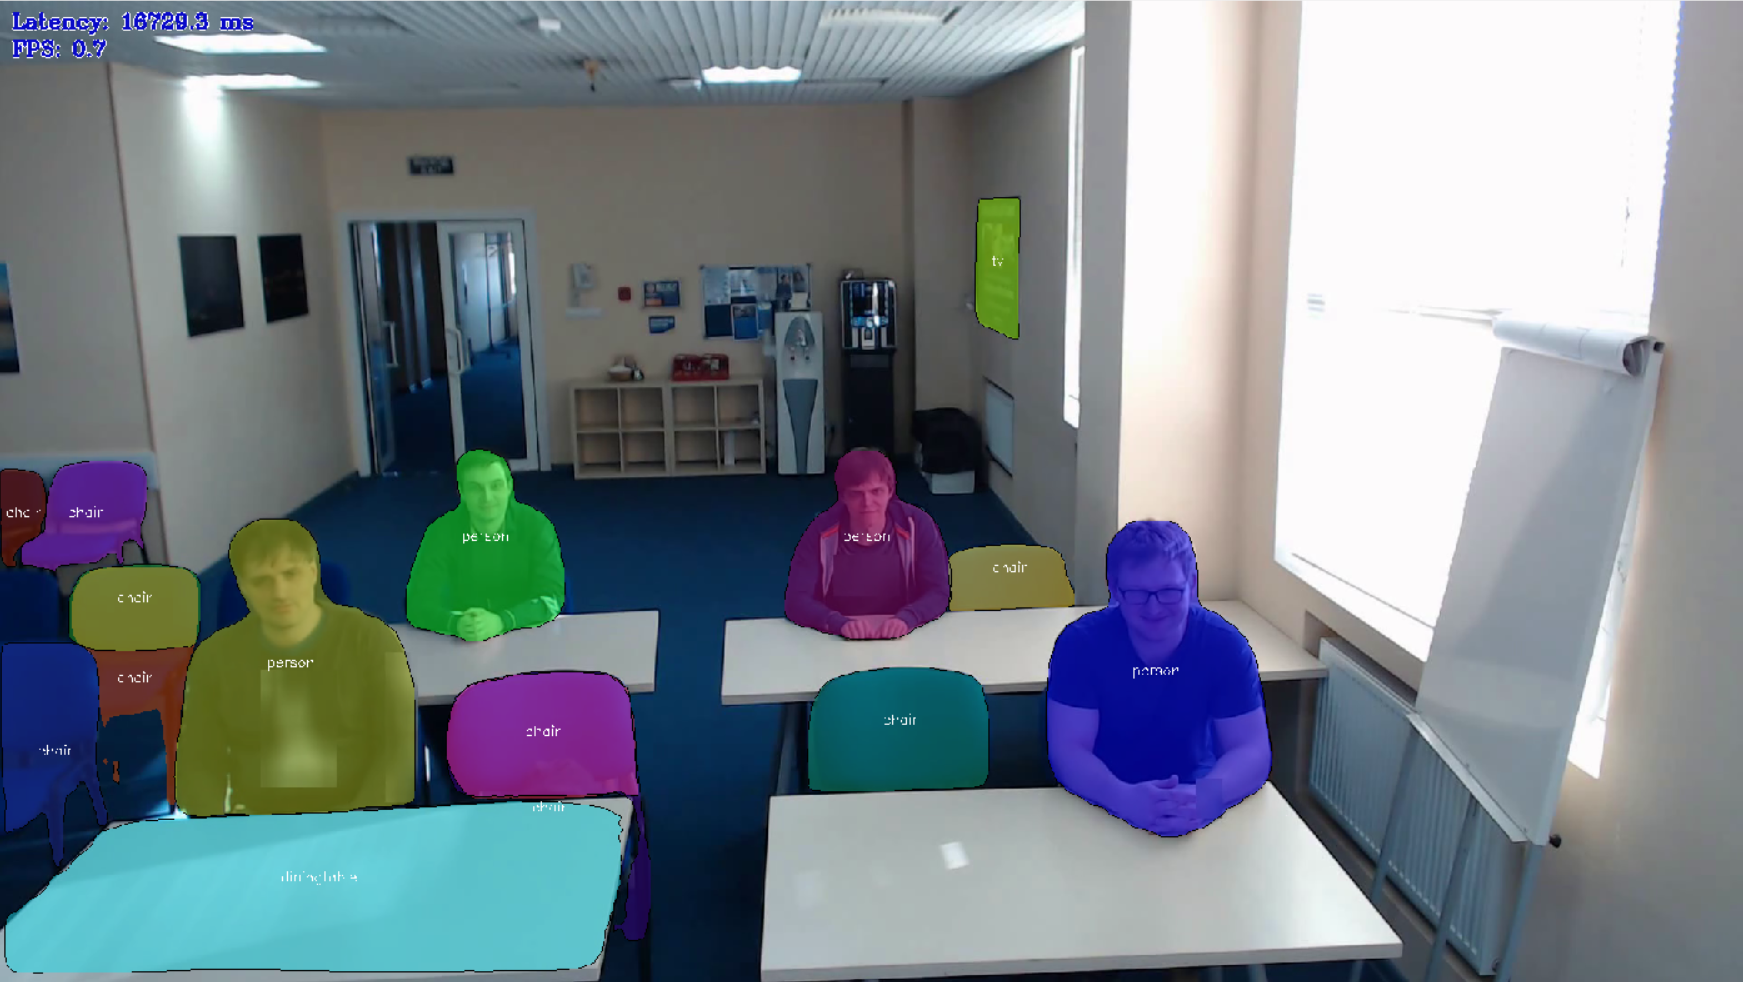
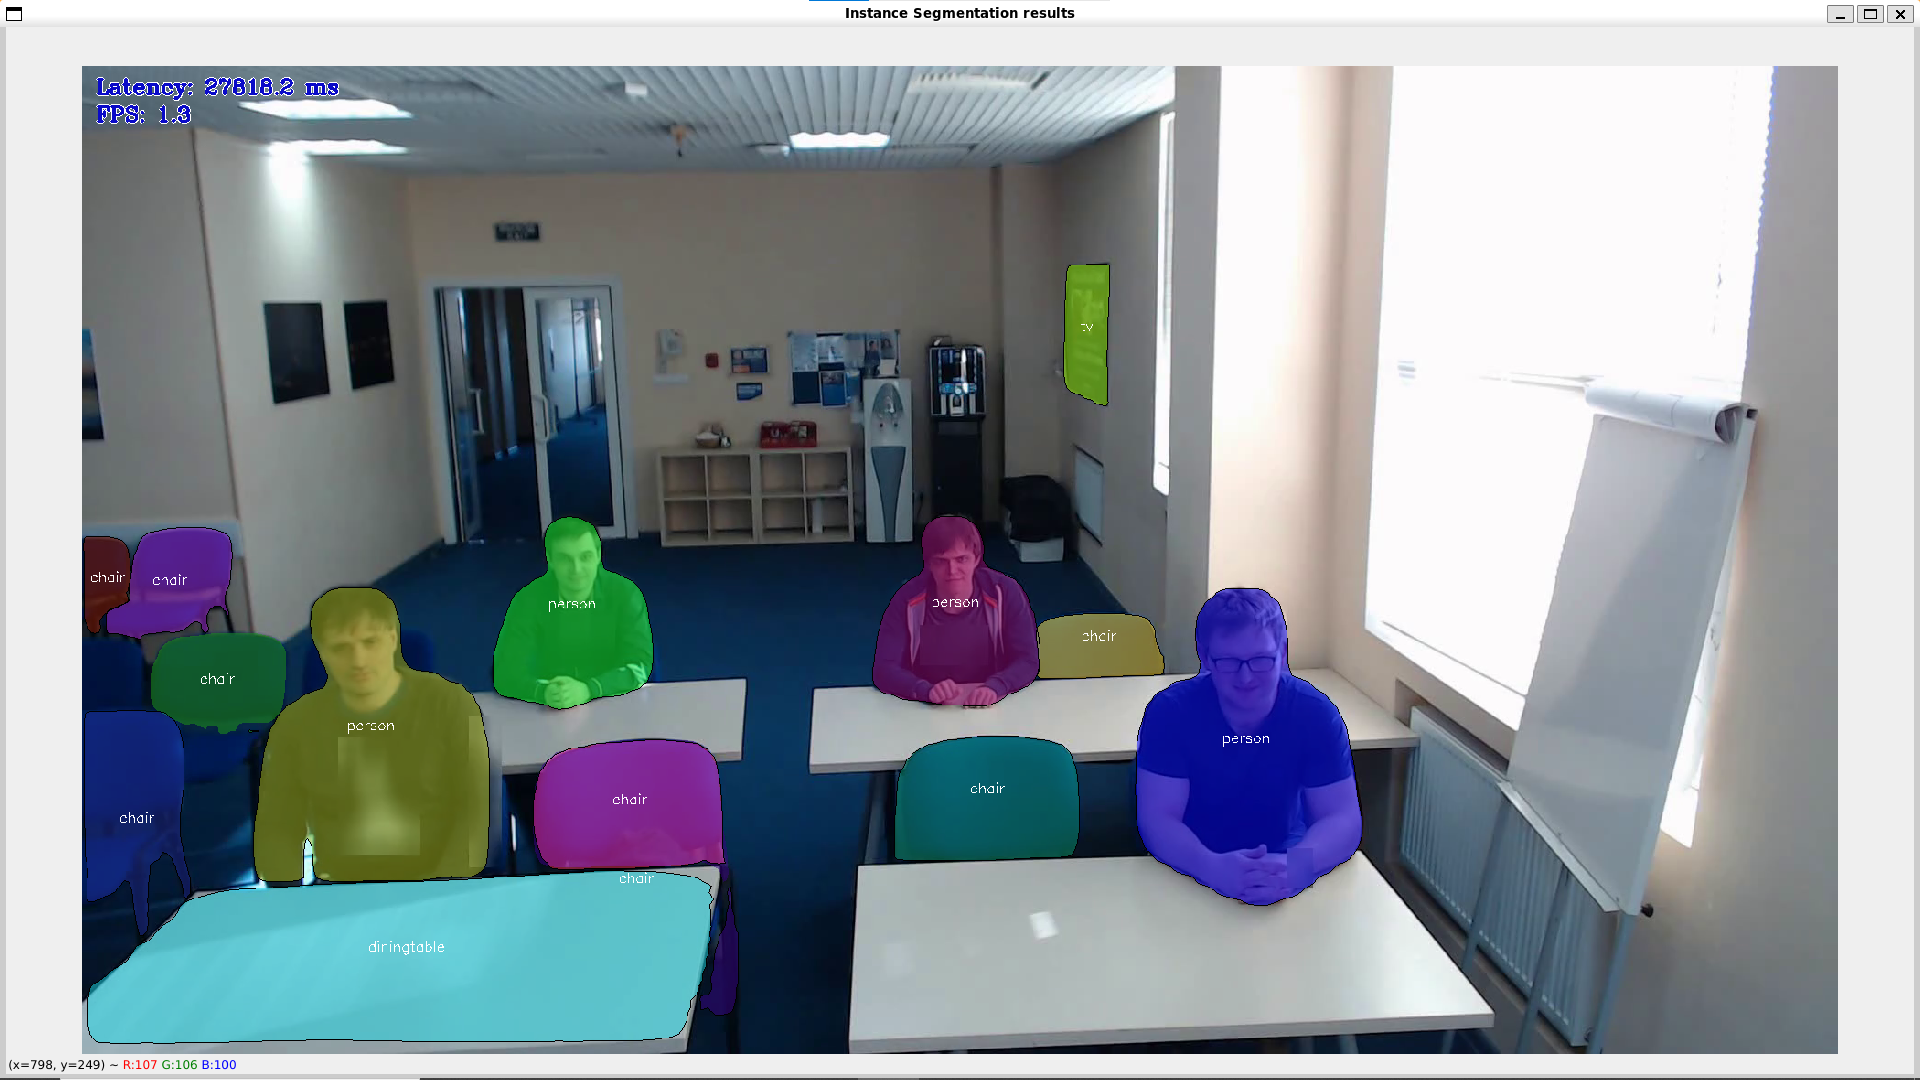
[Add] IOT Models

diff --git a/AI Optimization.md b/AI Optimization.md
@@ -170,7 +170,7 @@ Run it as
 
 More Details at : https://github.com/openvinotoolkit/open_model_zoo/blob/master/models/intel/product-detection-0001/README.md
 
-### Image Segmentation
+### Semantic Segmentation
 
 This is a segmentation network to classify each pixel into 20 classes:
 
@@ -184,6 +184,23 @@ Run it as
 
 <div style="align:center; margin-left:auto; margin-right:auto">
 <img src="https://github.com/krishnashed/bash_scripts_openvino/blob/main/images/semantic-segmentation.png"/>
+</div>
+
+More Details at : https://github.com/openvinotoolkit/open_model_zoo/blob/master/models/intel/semantic-segmentation-adas-0001/README.md
+
+### Instance Segmentation
+
+This demo shows how to perform instance segmentation using OpenVINO.
+Application expects an instance segmentation model in the Intermediate Representation (IR) format with the following constraints:
+
+Run it as
+
+```shell
+./semantic-segmentation-adas.sh
+```
+
+<div style="align:center; margin-left:auto; margin-right:auto">
+<img src="https://github.com/krishnashed/bash_scripts_openvino/blob/main/images/instance-segmentation.png"/>
 </div>
 
 More Details at : https://github.com/openvinotoolkit/open_model_zoo/blob/master/models/intel/semantic-segmentation-adas-0001/README.md
